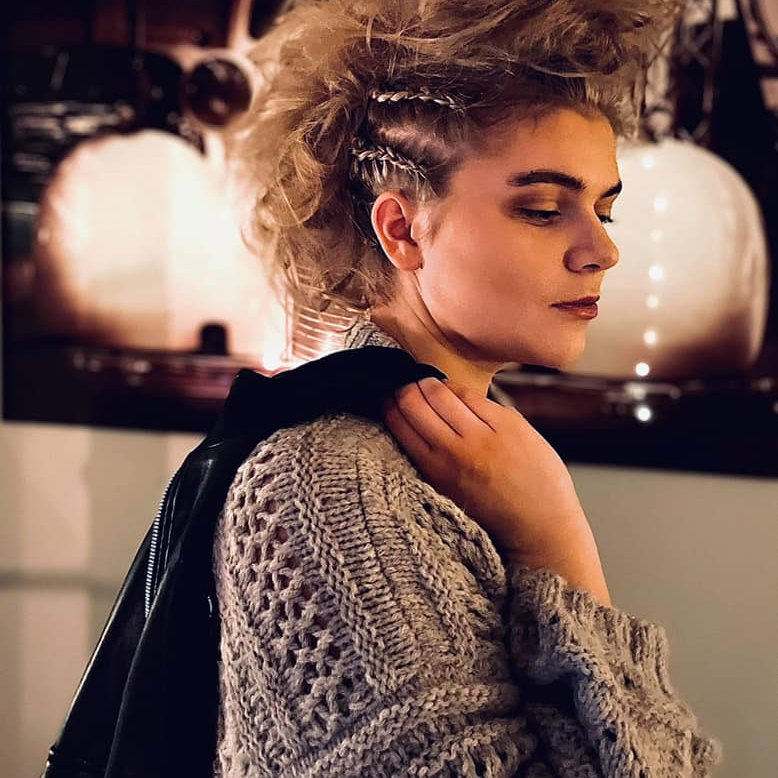
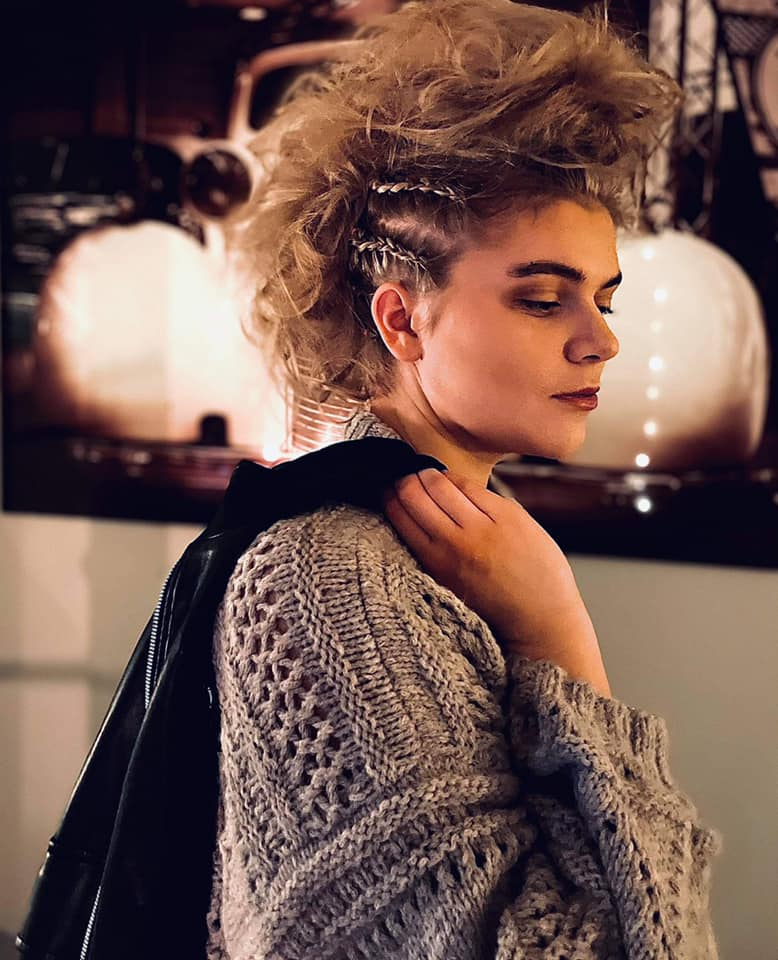
Hero optimalisert

diff --git a/src/components/Hero.jsx b/src/components/Hero.jsx
@@ -5,29 +5,33 @@ export default function Hero() {
    return (
     <section className='relative flex items-center justify-center text-center h-[80vh] sm:h-[90vh] overflow-hidden'>
         <Image 
-        src="/hero.png"
-        alt="Frisyre"
+        src="/hero2perf.jpg"
+        alt="Modell"
         fill
-        className="object-cover object-center"
+        className="object-cover object-center object-position  sm:object-[center_40%] 
+          
+        "
         priority
         />
 
       <div className="absolute inset-0 bg-black/50" />
 
       <div className="relative z-10 max-w-[90%] sm:max-w-2xl px-2 sm:px-4">
-        <h1 className="text-base sm:text-lg md:text-xl text-neutral-200 mb-6 sm:mb-8">
+        <h1 className="text-4xl sm:text-6xl font-serif text-white tracking-tight leading-tight drop-shadow-md">
           Kjødes Frisørsalong
         </h1>
 
-        <p className="text-lg md:text-xl text-neutral-200 mb-8">
+        <p className="text-base sm:text-lg md:text-xl text-neutral-200 mb-6 sm:mb-8">
           Din frisør i hjertet av Sykkylven
         </p>
         <a
           href="https://www.ledigtime.no/kjodes/step1"
           target='_blank'
           className="
-            inline-block bg-(--accent-terracotta) text-white px-6 py-3 
-            rounded-full font-semibold transition-transform hover:-translate-y-1
+              inline-block bg-(--accent-terracotta) text-white 
+            px-5 sm:px-8 py-2 sm:py-3 rounded-full font-semibold 
+            text-sm sm:text-base
+            transition-transform hover:-translate-y-1
           "
         >
           Bestill time
